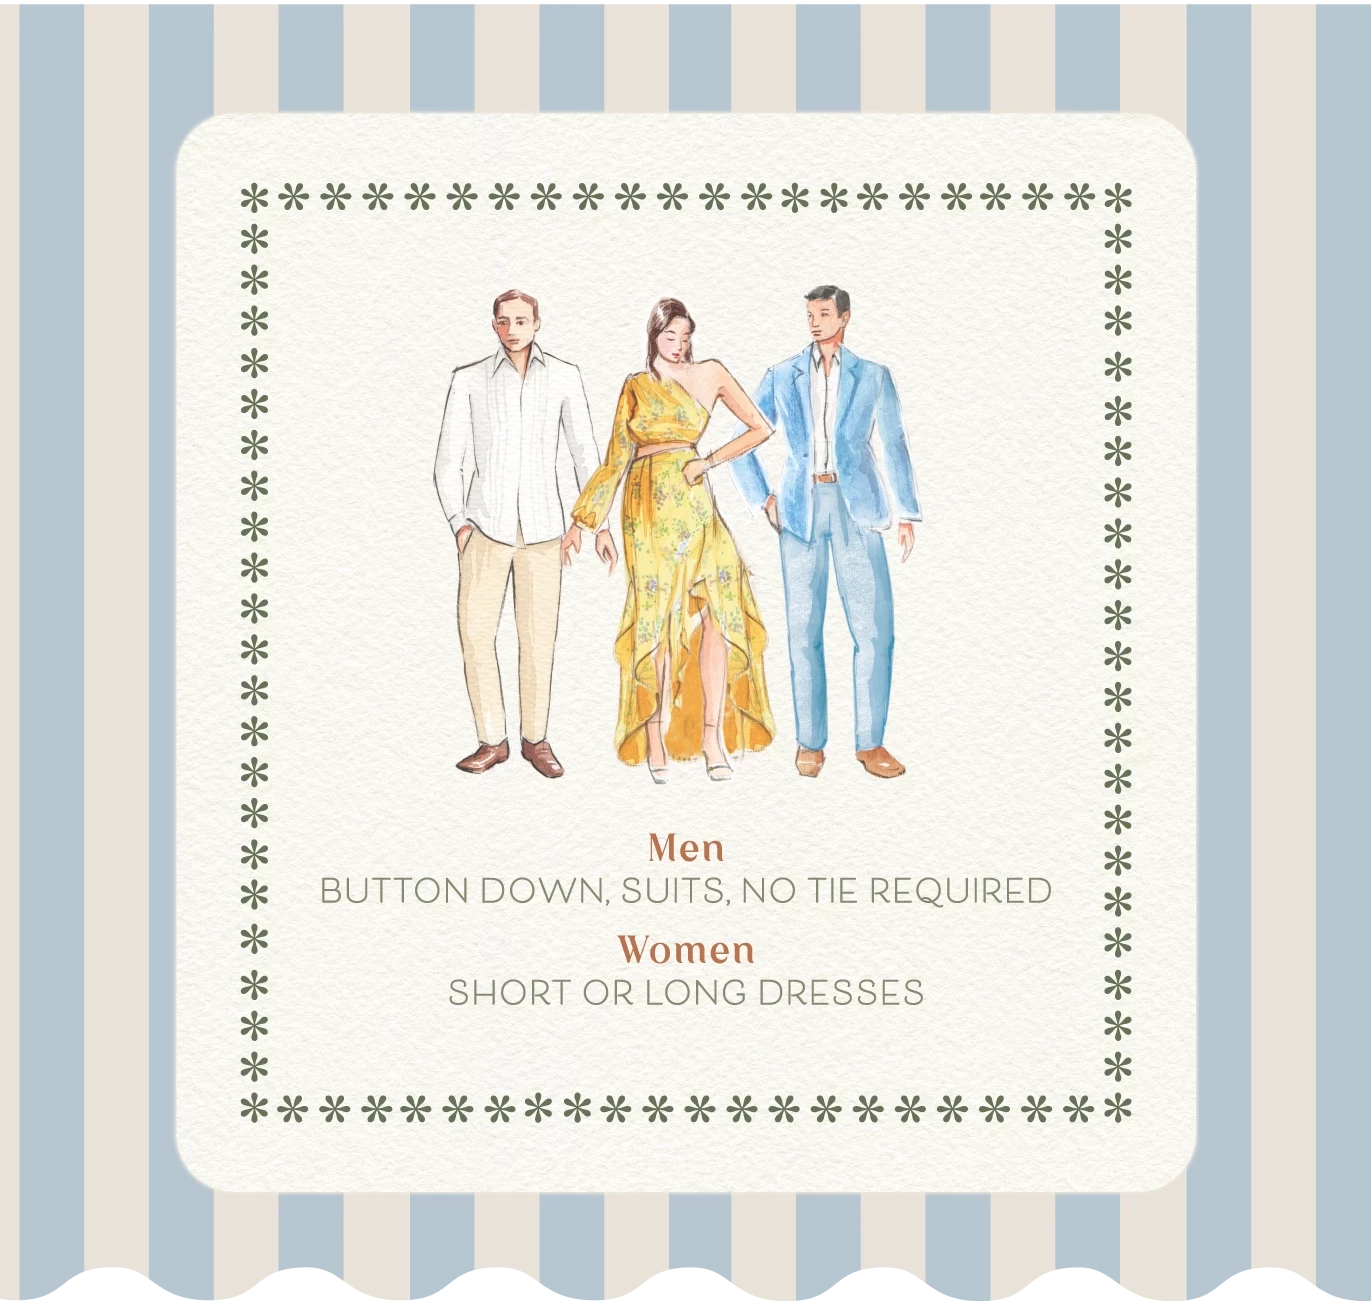
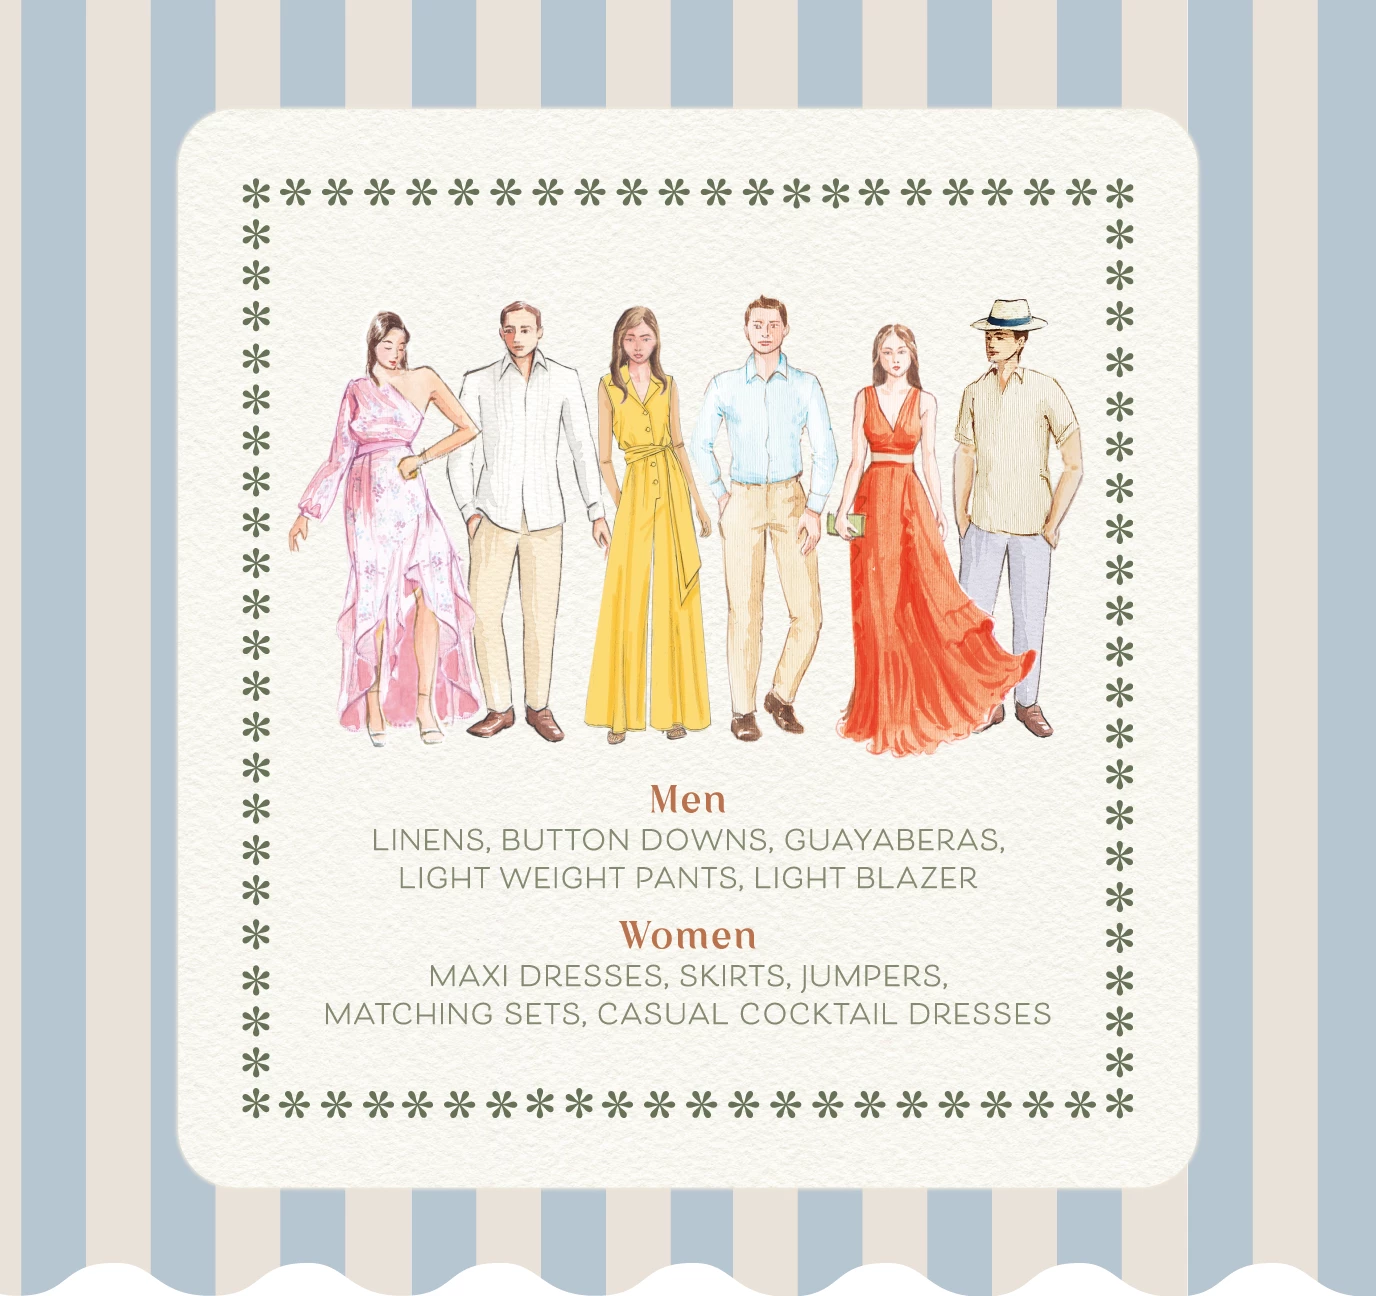
nuevos cambios

diff --git a/template-cartagena.php b/template-cartagena.php
@@ -600,12 +600,13 @@ $places = [
                                 <p class="fs-xl-6 fs-p-xxl text-secondary-200 text-secondary" style="line-height: 1.4">Please do not forget your passports! <br class="d-none d-xl-block"> Make sure to carefully check the expiration date.</p>
                                 <p class="fs-xl-6 fs-p-xxl text-secondary-200 mb-4 text-secondary" style="line-height: 1.4">To check if you need a visa to enter Colombia, <a href="https://apply.joinsherpa.com/travel-restrictions?language=en-US&originCountry=ESP&nationality=USA&travelPurposes=TOURISM&departureDate=2025-09-07&returnDate=2025-09-20&tripType=roundTrip&fullyVaccinated=true&affiliateId=sherpa" style="text-decoration: underline; color: #B8724C;" target="blank">you may review this free online service</a></p>
                                 <h2 class="font-titulo fs-xl-md-2 text-primary letter-xl-spacing-22 uppercase stroke-1">CheckMig</h2>
-                                <p class="fs-xl-6 fs-p-xxl text-secondary-200 mb-4 text-secondary" style="line-height: 1.4">CheckMig is an online form provided by Migración Colombia, where travelers register their travel information prior to entering or leaving the country. It may be completed between 72 hours and 1 hour before your trip. While it is not mandatory, it is highly recommended, as it streamlines the immigration process and helps prevent delays at the airport. <a href="https://apps.migracioncolombia.gov.co/pre-registro" style="text-decoration: underline; color: #B8724C;" target="blank">Click Here</a></p>
+                                <p class="fs-xl-6 fs-p-xxl text-secondary-200 mb-4 text-secondary d-none" style="line-height: 1.4">CheckMig is an online form provided by Migración Colombia, where travelers register their travel information prior to entering or leaving the country. It may be completed between 72 hours and 1 hour before your trip. While it is not mandatory, it is highly recommended, as it streamlines the immigration process and helps prevent delays at the airport. <a href="https://apps.migracioncolombia.gov.co/pre-registro" style="text-decoration: underline; color: #B8724C;" target="blank">Click Here</a></p>
+                                <p class="fs-xl-6 fs-p-xxl text-secondary-200 mb-4 text-secondary" style="line-height: 1.4">While it is not mandatory, it is highly recommended, as it streamlines the immigration process and helps prevent delays at the airport. <a href="https://apps.migracioncolombia.gov.co/pre-registro" style="text-decoration: underline; color: #B8724C;" target="blank">Please click here for the form</a></p>
                                 <h2 class="font-titulo fs-xl-md-2 text-primary letter-xl-spacing-22 uppercase stroke-1">INTERNATIONAL AIRPORT</h2>
                                 <p class="fs-xl-6 fs-p-xxl text-secondary-200 mb-4 text-secondary mb-3" style="line-height: 1.4">Several major airlines such as Latam, Delta, American Airlines, United, Aeroméxico, Copa Airlines, and Avianca offer direct flights to Rafael Núñez International Airport in Cartagena, on Colombia’s Caribbean coast. The best way to get from the airport to the walled city is by taxi or Uber. The ride takes approximately 10 to 15 minutes.</p>
                                 <p class="fs-xl-6 fs-p-xxl text-secondary-200 mb-4 text-secondary" style="line-height: 1.4">Authorized taxis are available 24 hours a day and operate with fixed fares, paid in cash: around 14,000 COP to Getsemaní, up to 18,000 COP to the hotel area in the historic center (Walled City), and approximately 30,000 COP to Bocagrande. In general, 1 USD equals about 4,100 COP. Since taxis do not always accept card payments, Uber is often a more convenient alternative</p>
                                 <h2 class="font-titulo fs-xl-md-2 text-primary letter-xl-spacing-22 uppercase stroke-1">CURRENCY</h2>
-                                <p class="fs-xl-6 fs-p-xxl text-secondary-200 mb-4 text-secondary mb-3" style="line-height: 1.4">The official currency in Colombia is the Colombian Peso (COP). At the moment, the average exchange rate is approximately 1 USD = 4,001 COP. To check the updated rate, you may <a href="https://wise.com/currency-converter" style="text-decoration: underline; color: #B8724C;" target="blank">Click here</a></p>
+                                <p class="fs-xl-6 fs-p-xxl text-secondary-200 mb-4 text-secondary mb-3" style="line-height: 1.4">The official currency in Colombia is the Colombian Peso (COP). At the moment, the average exchange rate is approximately 1 USD = 4,001 COP. To check the updated rate, you may <a href="https://wise.com/currency-converter" style="text-decoration: underline; color: #B8724C;" target="blank">click here</a></p>
                                 <h2 class="font-titulo fs-xl-md-2 text-primary letter-xl-spacing-22 uppercase stroke-1">SAFETY IN CARTAGENA</h2>
                                 <p class="fs-xl-6 fs-p-xxl text-secondary-200 mb-4 text-secondary mb-3" style="line-height: 1.4">Cartagena is a vibrant and welcoming city, highly appreciated by travelers from around the world. The most visited areas, such as the Historic Center, Getsemaní, and Bocagrande, are perfect for walking, enjoying the architecture, and experiencing local life. To make your stay even more comfortable, we recommend using reliable transportation (such as taxis requested from your hotel or through apps), carrying only what is necessary for your outings, and choosing well-lit streets at night.</p>
                                 <p class="fs-xl-6 fs-p-xxl text-secondary-200 mb-4 text-secondary" style="line-height: 1.4">With these simple suggestions, you can fully enjoy the charm and tranquility of this Caribbean destination.</p>

diff --git a/template-home.php b/template-home.php
@@ -159,7 +159,12 @@ get_header();
                                     <p class="fs-xl-3 text-secondary line-height-0">Thursday,</p>
                                     <p class="fs-xl-3 text-secondary line-height-0 mb-4">March 26, 2026</p>
                                     <p class="fs-xl-3 text-secondary line-height-0 mb-4">5:00 - 8:00 p.m.</p>
-                                    <p class="fs-xl-3 text-secondary line-height-0 mb-xl-4 mb-2">Tbd</p>
+                                    <p class="fs-xl-3 text-secondary line-height-0 mb-2">Mirador Gastro Bar</p>
+                                    <p class="fs-xl-3 text-secondary line-height-0 mb-2">Cra. 7 #32-77,</p>
+                                    <p class="fs-xl-3 text-secondary line-height-0 mb-2">El Centro,</p>
+                                    <p class="fs-xl-3 text-secondary line-height-0 mb-2">Cartagena de Indias,</p>
+                                    <p class="fs-xl-3 text-secondary line-height-0 mb-2">Provincia de Cartagena,</p>
+                                    <p class="fs-xl-3 text-secondary line-height-0 mb-2">Bolívar, Colombia</p>
                                     <a href="#" target="_blank" class="btn btn-primary mx-auto mb-5">Location</a>
 
                                     <p class="font-titulo fs-xl-3 fs-4 text-primary line-height-0 mb-xl-4 mb-2 stroke-1 letter-xl-spacing-4">DRESS CODE</p>
@@ -170,7 +175,10 @@ get_header();
                                     <p class="fs-xl-3 text-secondary line-height-0">Saturday,</p>
                                     <p class="fs-xl-3 text-secondary line-height-0 mb-4">March 28, 2026</p>
                                     <p class="fs-xl-3 text-secondary line-height-0 mb-4">11:30 a.m.</p>
-                                    <p class="fs-xl-3 text-secondary line-height-0 mb-xl-4 mb-2">Tbd</p>
+                                    <p class="fs-xl-3 text-secondary line-height-0 mb-2">Eteka Beach</p>
+                                    <p class="fs-xl-3 text-secondary line-height-0 mb-2">Isla de Tierrabomba,</p>
+                                    <p class="fs-xl-3 text-secondary line-height-0 mb-2">Provincia de Cartagena,</p>
+                                    <p class="fs-xl-3 text-secondary line-height-0 mb-2">Bolívar, Colombia</p>
                                     <a href="#" target="_blank" class="btn btn-primary mx-auto mb-5">Location</a>
 
                                     <p class="font-titulo fs-xl-3 fs-4 text-primary line-height-0 mb-xl-4 mb-2 stroke-1 letter-xl-spacing-4">DRESS CODE</p>
